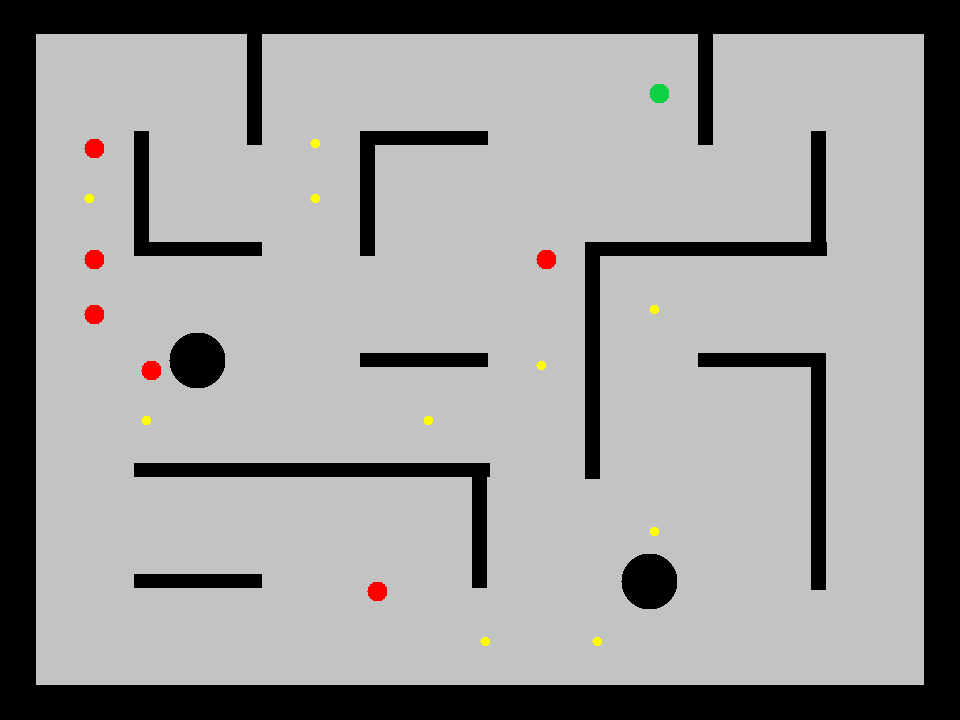
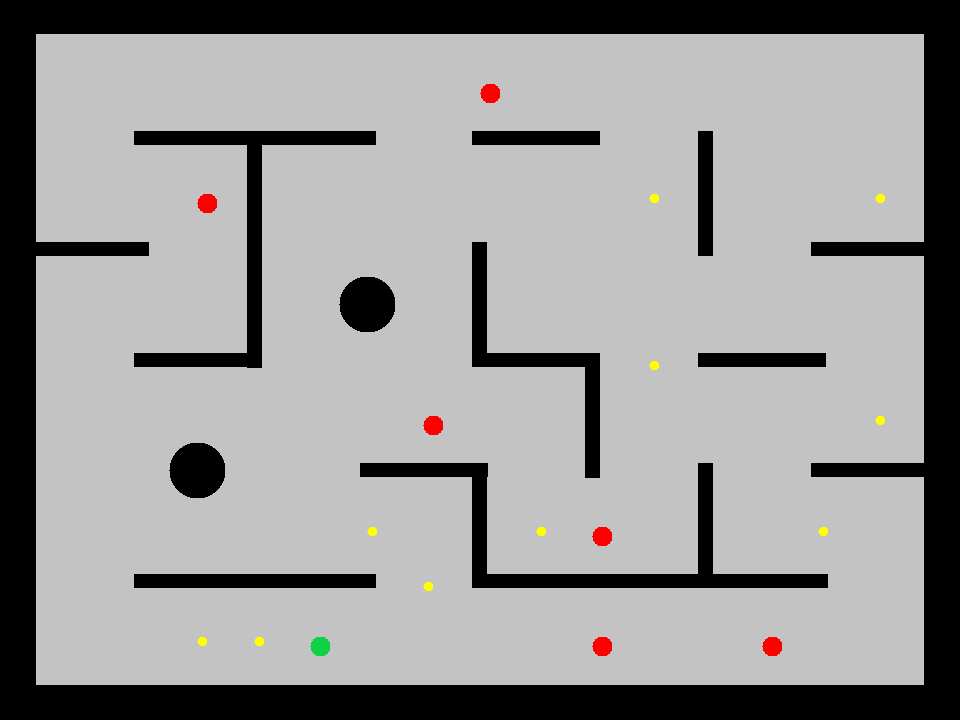
Updated README.md

diff --git a/README.md b/README.md
@@ -1,2 +1,146 @@
-# maze-raycasting-game
-A maze game using ray casting technology where players navigate randomly generated mazes, collect coins, and avoid monsters while managing their health to progress through increasingly difficult levels.
+# Randomised Maze Ray Casting Game
+
+The **Randomised Maze Ray Casting Game** is a maze exploration game where players navigate through randomly generated mazes, collect all coins, and avoid zombies to progress through increasingly difficult levels. The game leverages on [Ray Casting](#ray-casting), a technique using in early video games to efficiently render a 3D world from a 2D playing field, and a modified [Depth-First Search (DFS) Maze Generation Algorithm](#random-maze-generation), offering an immersive gameplay experience.
+
+*Game written in Java using the libGDX library.*
+
+Developed by **Alexander Shemaly** in 2023.
+
+## Table of Contents
+
+- [Installation](#installation)
+- [How to Play](#how-to-play)
+- [Ray Casting](#ray-casting)
+- [Random Maze Generation](#random-maze-generation)
+- [Why I made the Game?](#why-i-made-the-game)
+- [Copyright](#license)
+- [License](#license)
+
+## Installation
+
+To install the game on your computer, get the latest version from the [Releases page](https://github.com/AlexShem247/maze-raycasting-game/releases).
+
+1. **On Windows:**
+   - Download the Windows `.exe` and run the program.
+
+2. **On a Computer with Java Installed:**
+   - Download the `.JAR` file and run the program using the JVM.
+
+## How to Play
+
+1. **Start the Round:**
+   - A preview of the maze is shown on screen.
+        - The green dot represents your starting position.
+        - The yellow dots represent the location of the coins.
+        - The red dots are the starting locations of the zombies.
+
+2. **Navigate the Maze:**
+   - Use the **WASD** keys to move your character through the maze:
+     - **W**: Move forward
+     - **A**: Move left
+     - **S**: Move backward
+     - **D**: Move right
+
+3. **Collect Coins:**
+   - Explore the maze to find and collect all the coins. The level will not complete until all coins are gathered.
+
+4. **Avoid Zombies:**
+   - Zombies roam the maze and will chase you if they see you. Avoid contact to prevent health loss.
+
+5. **Advance to the Next Level:**
+   - Once all coins are collected, a more difficult level will be unlocked.
+
+## Ray Casting
+
+Ray casting works by projecting rays from the player’s position into the environment to determine what objects (walls, coins, zombies) are visible and how far away they are. Each ray is cast at a specific angle corresponding to the player’s field of view, and the game calculates where these rays intersect with the walls of the maze. These intersections are used to determine the height and position of walls on the screen, creating the illusion of depth.
+
+### Basic Concepts
+
+1. **Rays and Angles:**
+   - The player’s viewpoint is the origin from which rays are cast.
+   - Rays are projected at regular angular intervals across the player’s field of view, covering a range of angles from the left to the right edge of the screen.
+
+2. **Intersection Calculation:**
+   - For each ray, the game calculates where it intersects with the walls of the maze. This is done by solving equations that represent the lines (or walls) in the maze.
+   - The intersection point tells us how far away the wall is and at what height it should be drawn on the screen.
+
+3. **Distance Calculation:**
+   - The distance from the player to the wall is calculated using the formula:
+     $$
+     d = \frac{{\text{distance to wall}}}{{\cos(\theta)}}
+     $$
+     where $d$ is the perpendicular distance to the wall, and $\theta$ is the angle of the ray relative to the player’s viewing direction. This correction accounts for the "fish-eye" distortion that would otherwise occur.
+
+4. **Projection:**
+   - The height of the wall on the screen is inversely proportional to the distance calculated. The closer the wall, the taller it appears, and vice versa.
+   - The height $h$ of the wall slice on the screen is given by:
+     $$
+     h = \frac{{C}}{{d}}
+     $$
+     where $C$ is a constant that scales the height based on the screen resolution and the player's field of view.
+
+To learn more, see [Ray casting](https://en.wikipedia.org/wiki/Ray_casting).
+
+## Random Maze Generation
+
+The Depth-First Search (DFS) technique generates a maze by systematically visiting each cell, carving out paths as it goes. This process mimics the way one might explore a real maze: moving forward when possible and backtracking when necessary to find unexplored areas.
+
+### Basic Steps
+
+1. **Grid Initialisation:**
+   - The maze begins as a grid where each cell is initially surrounded by walls on all four sides.
+
+2. **Choosing the Starting Point:**
+   - A random cell is chosen as the starting point. This cell is marked as visited, and the algorithm begins to explore from here.
+
+3. **Path Carving:**
+   - From the current cell, the algorithm randomly selects an unvisited neighboring cell.
+   - It removes the wall between the current cell and the chosen neighbor, creating a passage, and then moves to the neighboring cell, marking it as visited.
+   - This process is repeated, with the algorithm carving out a path and moving deeper into the maze.
+
+4. **Backtracking:**
+   - If the algorithm reaches a cell with no unvisited neighbors, it backtracks to the previous cell in the stack and continues exploring from there.
+   - This backtracking ensures that every possible path is explored and connected, resulting in a fully traversable maze.
+
+5. **Completing the Maze:**
+   - The algorithm continues until all cells have been visited, at which point the maze is complete.
+
+To learn more, see [Maze generation algorithm](https://en.wikipedia.org/wiki/Maze_generation_algorithm).
+
+### Dead End Removal
+
+Once the initial maze is generated, an additional step is taken to remove dead ends, preventing people from getting stuck when a zombie chases them into the corner.
+
+- **Dead End Detection:**
+  - After the maze is fully generated, the algorithm scans each cell to identify dead ends.
+  - A dead end is identified if the cell has only one open passage (i.e., three walls surrounding it).
+
+- **Dead End Removal:**
+  - When a dead end is detected, the algorithm removes one of the surrounding walls, thereby creating an additional passage and eliminating the dead end.
+  - This process reduces the number of one-way paths in the maze, making it more open and challenging to navigate.
+
+## Why I made the Game?
+My fascination with 2.5D graphics and the complex mathematics behind them inspired me to create this game. I’ve always been intrigued by how simple 2D elements can be transformed into immersive 3D-like environments through techniques like ray casting. Additionally, I wanted to apply and deepen my understanding of algorithms and mathematical concepts that I had previously studied. 
+## Copyright
+Here is a copyright section for the README file that acknowledges the assets used in your game:
+
+---
+
+## Copyright
+
+The game uses the following assets:
+
+- **Wall Textures:** Provided by [OpenGameArt](https://opengameart.org/content/lab-textures?page=1)
+- **Zombie & Damage Sound Effect:** From Minecraft, credited to Mojang
+- **Coin Animation:** Sourced from [The Spriters Resource](https://www.spriters-resource.com/mobile/coinmaster/sheet/147479/)
+- **Coin Sound Effect:** Mario Coin Sound, credited to Nintendo
+
+All rights to the original assets belong to their respective creators. These assets are used in accordance with their licensing terms and are acknowledged here to give proper credit.
+
+## License
+
+This project is licensed under the MIT License - see the [LICENSE](LICENSE) file for details.
+
+---
+
+Prepare to be mind blown by the power of mathematics and 2D shape drawing.
